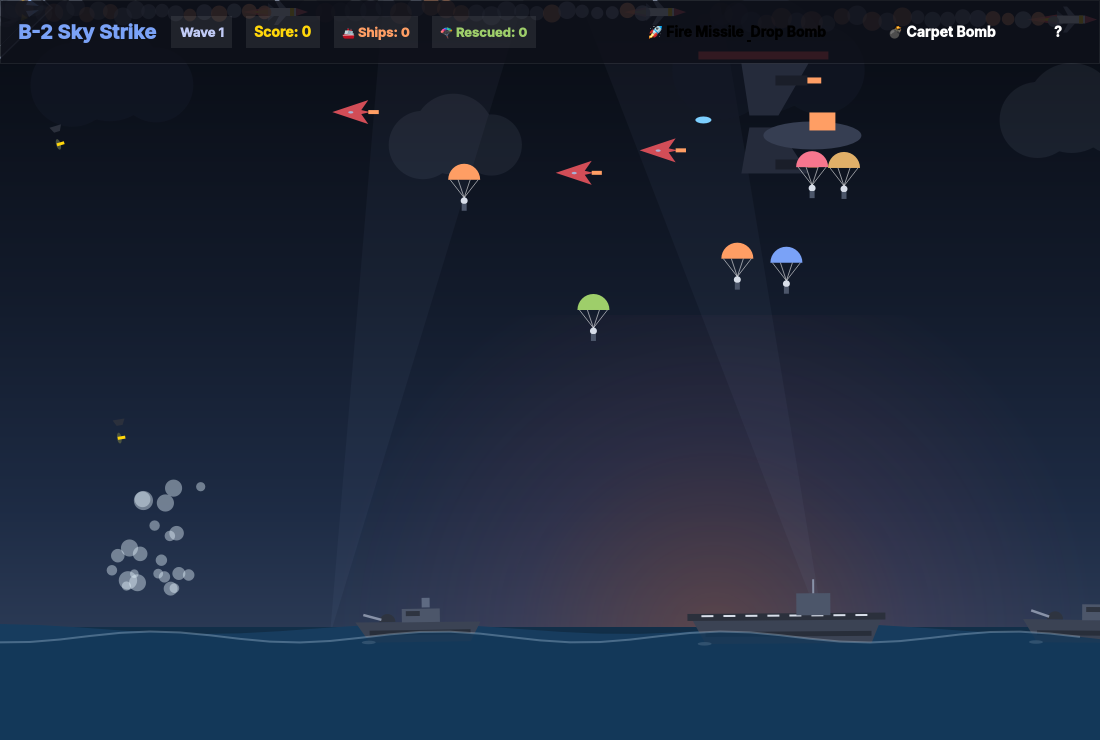
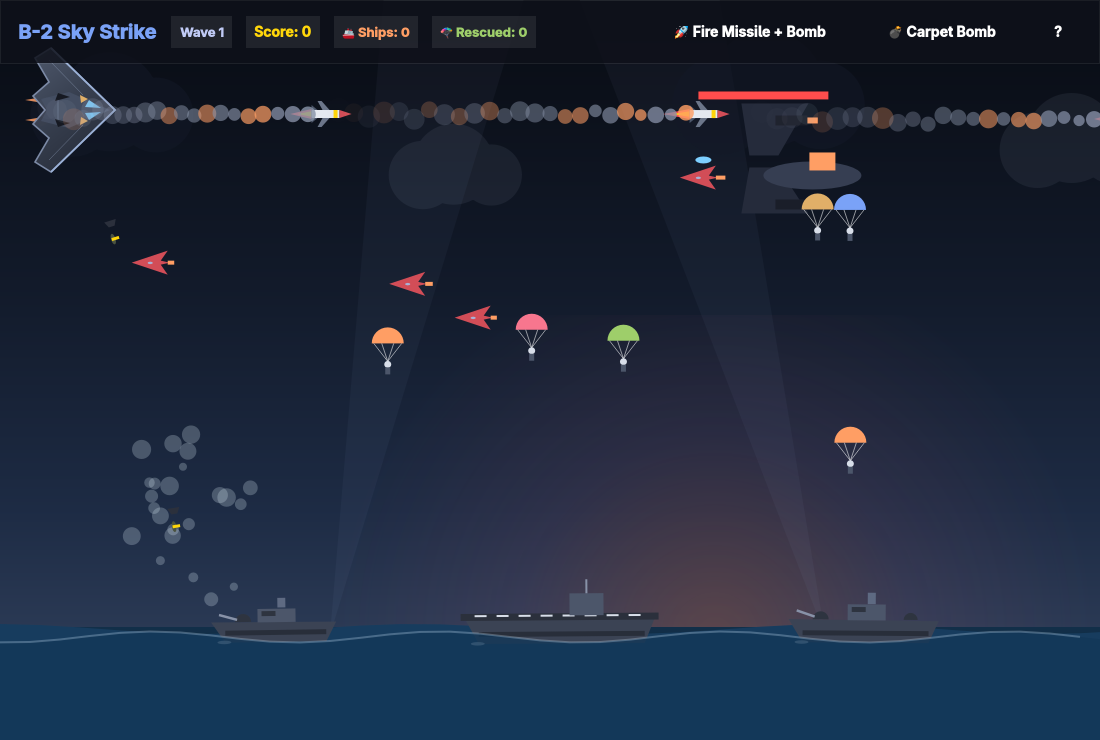
Clamp B-2 flight bounds and refine HUD buttons

diff --git a/src/Main.qml b/src/Main.qml
@@ -39,10 +39,10 @@ ApplicationWindow {
         LayoutMirroring.childrenInherit: true
 
         // --- PLAYER B-2 SPIRIT STATE ---
-        property real playerX: 200
-        property real playerY: 250
-        property real targetX: 200
-        property real targetY: 250
+        property real playerX: 220
+        property real playerY: 270
+        property real targetX: 220
+        property real targetY: 270
         property real playerTilt: 0
         property real playerBank: 0
         property int bombBayOpenTicks: 0
@@ -52,7 +52,7 @@ ApplicationWindow {
 
         // --- GIANT AIRBORNE CARRIER / MOTHERSHIP ---
         property real bossX: win.width - 220
-        property real bossY: 135
+        property real bossY: 165
         property real bossVx: -1.1
         property real bossHealth: 140
         property real bossMaxHealth: 140
@@ -76,23 +76,24 @@ ApplicationWindow {
 
         function initEnvironment() {
             clouds = [
-                { x: 120, y: 85, s: 1.1, speed: 0.45, dark: true },
-                { x: 460, y: 145, s: 0.9, speed: 0.35, dark: false },
-                { x: 780, y: 70, s: 1.3, speed: 0.55, dark: true },
-                { x: 1080, y: 120, s: 1.0, speed: 0.40, dark: false }
+                { x: 120, y: 115, s: 1.1, speed: 0.45, dark: true },
+                { x: 460, y: 175, s: 0.9, speed: 0.35, dark: false },
+                { x: 780, y: 105, s: 1.3, speed: 0.55, dark: true },
+                { x: 1080, y: 150, s: 1.0, speed: 0.40, dark: false }
             ];
 
-            // Initial enemy warships on the sea
+            // Initial enemy warships on the sea (including one right below the bombing path)
             warships = [];
-            spawnWarship(win.width * 0.45, "destroyer");
-            spawnWarship(win.width * 0.78, "carrier");
-            spawnWarship(win.width * 1.08, "cruiser");
+            spawnWarship(340, "destroyer");
+            spawnWarship(640, "carrier");
+            spawnWarship(940, "cruiser");
 
             // Initial enemy fighter planes & paratroopers so action starts immediately
             smallPlanes = [];
-            spawnSmallPlane(win.width * 0.65, 190);
-            spawnSmallPlane(win.width * 0.80, 260);
-            spawnParatrooper(win.width * 0.55, 220);
+            spawnSmallPlane(580, 270);
+            spawnSmallPlane(760, 230);
+            spawnSmallPlane(880, 320);
+            spawnParatrooper(520, 240);
         }
 
         Component.onCompleted: {
@@ -306,9 +307,10 @@ ApplicationWindow {
                 if (root.invulnerableTicks > 0)
                     root.invulnerableTicks--;
 
-                // 1. B-2 Spirit smooth flight above sea level
-                var clampedTargetY = Math.min(root.targetY, root.seaLevel - 75);
-                var dx = root.targetX - root.playerX;
+                // 1. B-2 Spirit smooth flight clamped between HUD and sea level
+                var clampedTargetX = Math.max(65, Math.min(win.width - 65, root.targetX));
+                var clampedTargetY = Math.max(110, Math.min(root.targetY, root.seaLevel - 75));
+                var dx = clampedTargetX - root.playerX;
                 var dy = clampedTargetY - root.playerY;
                 root.playerX += dx * 0.14;
                 root.playerY += dy * 0.14;
@@ -325,7 +327,7 @@ ApplicationWindow {
                 // 3. Giant Mothership logic
                 if (root.bossActive) {
                     root.bossX += root.bossVx;
-                    root.bossY = 125 + Math.sin(root.seaTime * 0.7) * 18;
+                    root.bossY = 165 + Math.sin(root.seaTime * 0.7) * 18;
 
                     if (root.bossX < win.width * 0.48 && root.bossVx < 0)
                         root.bossVx = 0.85;
@@ -1079,84 +1081,93 @@ ApplicationWindow {
                 ctx.rotate(root.playerTilt);
 
                 // Concealed Dorsal Stealth Exhaust Glow (Twin recessed vents on top deck)
-                var jetGlow = 8 + Math.random() * 6;
-                ctx.fillStyle = "rgba(125, 207, 255, 0.75)";
+                var jetGlow = 12 + Math.random() * 8;
+                ctx.fillStyle = "rgba(255, 158, 100, 0.85)";
                 ctx.beginPath();
-                ctx.moveTo(-22, -11); ctx.lineTo(-22 - jetGlow, -9); ctx.lineTo(-22, -6);
-                ctx.moveTo(-22, 6);   ctx.lineTo(-22 - jetGlow, 9);  ctx.lineTo(-22, 11);
+                ctx.moveTo(-22, -13); ctx.lineTo(-22 - jetGlow, -10); ctx.lineTo(-22, -7);
+                ctx.moveTo(-22, 7);   ctx.lineTo(-22 - jetGlow, 10);  ctx.lineTo(-22, 13);
                 ctx.fill();
 
                 // Open Internal Bomb Bay Glow when releasing missiles/bombs
                 if (root.bombBayOpenTicks > 0) {
-                    ctx.fillStyle = "rgba(255, 158, 100, 0.45)";
+                    ctx.fillStyle = "rgba(255, 180, 90, 0.55)";
                     ctx.beginPath();
-                    ctx.ellipse(0, 6, 18, 8, 0, 0, 6.28);
+                    ctx.ellipse(2, 8, 20, 9, 0, 0, 6.28);
                     ctx.fill();
                 }
 
                 // B-2 Spirit Iconic Flying-Wing Silhouette with Sawtooth "W" Trailing Edge
-                var b2Grad = ctx.createLinearGradient(-35, -45, 45, 45);
-                b2Grad.addColorStop(0.0, "#353c4a");
-                b2Grad.addColorStop(0.5, "#1f242d");
-                b2Grad.addColorStop(1.0, "#14171d");
+                var b2Grad = ctx.createLinearGradient(-40, -58, 52, 58);
+                b2Grad.addColorStop(0.0, "#505a6e");
+                b2Grad.addColorStop(0.45, "#373f4f");
+                b2Grad.addColorStop(1.0, "#232834");
                 ctx.fillStyle = b2Grad;
-                ctx.strokeStyle = "#525c70";
-                ctx.lineWidth = 1.4;
+                ctx.strokeStyle = "#7c8aa6";
+                ctx.lineWidth = 1.6;
 
                 ctx.beginPath();
-                ctx.moveTo(44, 0);      // Sharp stealth nose beak
-                ctx.lineTo(-12, -54);   // Upper swept leading edge
-                ctx.lineTo(-26, -46);   // Upper clipped wingtip
-                ctx.lineTo(-14, -24);   // Upper outer sawtooth notch
-                ctx.lineTo(-28, -12);   // Upper inner sawtooth peak
-                ctx.lineTo(-18, 0);     // Center tail beaver-tail point
-                ctx.lineTo(-28, 12);    // Lower inner sawtooth peak
-                ctx.lineTo(-14, 24);    // Lower outer sawtooth notch
-                ctx.lineTo(-26, 46);    // Lower clipped wingtip
-                ctx.lineTo(-12, 54);    // Lower swept leading edge
+                ctx.moveTo(50, 0);      // Sharp stealth hawk-beak nose
+                ctx.lineTo(-14, -62);   // Upper straight swept leading edge
+                ctx.lineTo(-30, -52);   // Upper raked stealth wingtip
+                ctx.lineTo(-16, -28);   // Upper outer sawtooth notch
+                ctx.lineTo(-32, -14);   // Upper inner sawtooth peak
+                ctx.lineTo(-20, 0);     // Center beaver-tail trailing tip
+                ctx.lineTo(-32, 14);    // Lower inner sawtooth peak
+                ctx.lineTo(-16, 28);    // Lower outer sawtooth notch
+                ctx.lineTo(-30, 52);    // Lower raked stealth wingtip
+                ctx.lineTo(-14, 62);    // Lower straight swept leading edge
                 ctx.closePath();
                 ctx.fill();
                 ctx.stroke();
 
-                // Center Fuselage Blended Spine Highlight
-                ctx.fillStyle = "#2b313d";
+                // Leading-edge radar-absorbent metallic sheen
+                ctx.strokeStyle = "#9ab0d6";
+                ctx.lineWidth = 1.8;
                 ctx.beginPath();
-                ctx.moveTo(40, 0);
-                ctx.lineTo(2, -16);
-                ctx.lineTo(-22, -10);
-                ctx.lineTo(-16, 0);
-                ctx.lineTo(-22, 10);
-                ctx.lineTo(2, 16);
+                ctx.moveTo(-14, -62);
+                ctx.lineTo(50, 0);
+                ctx.lineTo(-14, 62);
+                ctx.stroke();
+
+                // Center Fuselage Blended Spine Highlight
+                ctx.fillStyle = "#434d61";
+                ctx.beginPath();
+                ctx.moveTo(45, 0);
+                ctx.lineTo(4, -18);
+                ctx.lineTo(-24, -11);
+                ctx.lineTo(-18, 0);
+                ctx.lineTo(-24, 11);
+                ctx.lineTo(4, 18);
                 ctx.closePath();
                 ctx.fill();
 
                 // Radar-Absorbent Stealth Panel Seam Lines
-                ctx.strokeStyle = "rgba(140, 160, 190, 0.22)";
+                ctx.strokeStyle = "rgba(175, 195, 225, 0.28)";
                 ctx.lineWidth = 1;
                 ctx.beginPath();
-                ctx.moveTo(16, -14); ctx.lineTo(-14, -44);
-                ctx.moveTo(16, 14);  ctx.lineTo(-14, 44);
-                ctx.moveTo(-6, -12); ctx.lineTo(-6, 12);
+                ctx.moveTo(18, -15); ctx.lineTo(-16, -50);
+                ctx.moveTo(18, 15);  ctx.lineTo(-16, 50);
+                ctx.moveTo(-7, -14); ctx.lineTo(-7, 14);
                 ctx.stroke();
 
                 // Twin Recessed Stealth Engine Intakes (S-duct serrated intakes)
-                ctx.fillStyle = "#101318";
+                ctx.fillStyle = "#161922";
                 ctx.beginPath();
-                ctx.moveTo(4, -12); ctx.lineTo(-6, -15); ctx.lineTo(-8, -8); ctx.closePath();
-                ctx.moveTo(4, 12);  ctx.lineTo(-6, 15);  ctx.lineTo(-8, 8);  ctx.closePath();
+                ctx.moveTo(5, -13); ctx.lineTo(-7, -17); ctx.lineTo(-10, -9); ctx.closePath();
+                ctx.moveTo(5, 13);  ctx.lineTo(-7, 17);  ctx.lineTo(-10, 9);  ctx.closePath();
                 ctx.fill();
 
                 // B-2 Spirit Flush Wrap-Around Metallic Cockpit Windscreens (4 angled panes)
-                ctx.fillStyle = "#89b4fa";
+                ctx.fillStyle = "#7dcfff";
                 ctx.beginPath();
-                ctx.moveTo(31, -2); ctx.lineTo(21, -9); ctx.lineTo(18, -3); ctx.closePath();
-                ctx.moveTo(31, 2);  ctx.lineTo(21, 9);  ctx.lineTo(18, 3);  ctx.closePath();
+                ctx.moveTo(36, -2); ctx.lineTo(24, -10); ctx.lineTo(20, -3); ctx.closePath();
+                ctx.moveTo(36, 2);  ctx.lineTo(24, 10);  ctx.lineTo(20, 3);  ctx.closePath();
                 ctx.fill();
 
-                ctx.fillStyle = "rgba(255, 214, 10, 0.35)"; // Gold radar-reflective tint
+                ctx.fillStyle = "#e0af68"; // Gold radar-reflective side pane tint
                 ctx.beginPath();
-                ctx.moveTo(20, -10); ctx.lineTo(13, -13); ctx.lineTo(14, -6); ctx.closePath();
-                ctx.moveTo(20, 10);  ctx.lineTo(13, 13);  ctx.lineTo(14, 6);  ctx.closePath();
+                ctx.moveTo(23, -11); ctx.lineTo(15, -15); ctx.lineTo(16, -7); ctx.closePath();
+                ctx.moveTo(23, 11);  ctx.lineTo(15, 15);  ctx.lineTo(16, 7);  ctx.closePath();
                 ctx.fill();
 
                 // Shield bubble when brushing past enemy planes
@@ -1216,13 +1227,17 @@ ApplicationWindow {
             acceptedButtons: Qt.LeftButton | Qt.RightButton
 
             onPositionChanged: function(mouse) {
+                if (mouse.x <= 1 && mouse.y <= 1)
+                    return;
                 root.targetX = mouse.x;
                 root.targetY = mouse.y;
             }
 
             onPressed: function(mouse) {
-                root.targetX = mouse.x;
-                root.targetY = mouse.y;
+                if (mouse.x > 1 || mouse.y > 1) {
+                    root.targetX = mouse.x;
+                    root.targetY = mouse.y;
+                }
                 if (mouse.button === Qt.RightButton)
                     root.dropCarpetBombs();
                 else
@@ -1325,9 +1340,7 @@ ApplicationWindow {
                 }
 
                 Button {
-                    text: "🚀 " + qsTr("Fire Missile & Drop Bomb")
-                    Material.background: theme.accent
-                    Material.foreground: theme.accentForeground
+                    text: "🚀 " + qsTr("Fire Missile + Bomb")
                     font.bold: true
                     onClicked: root.fireAllOrdnance()
                 }
